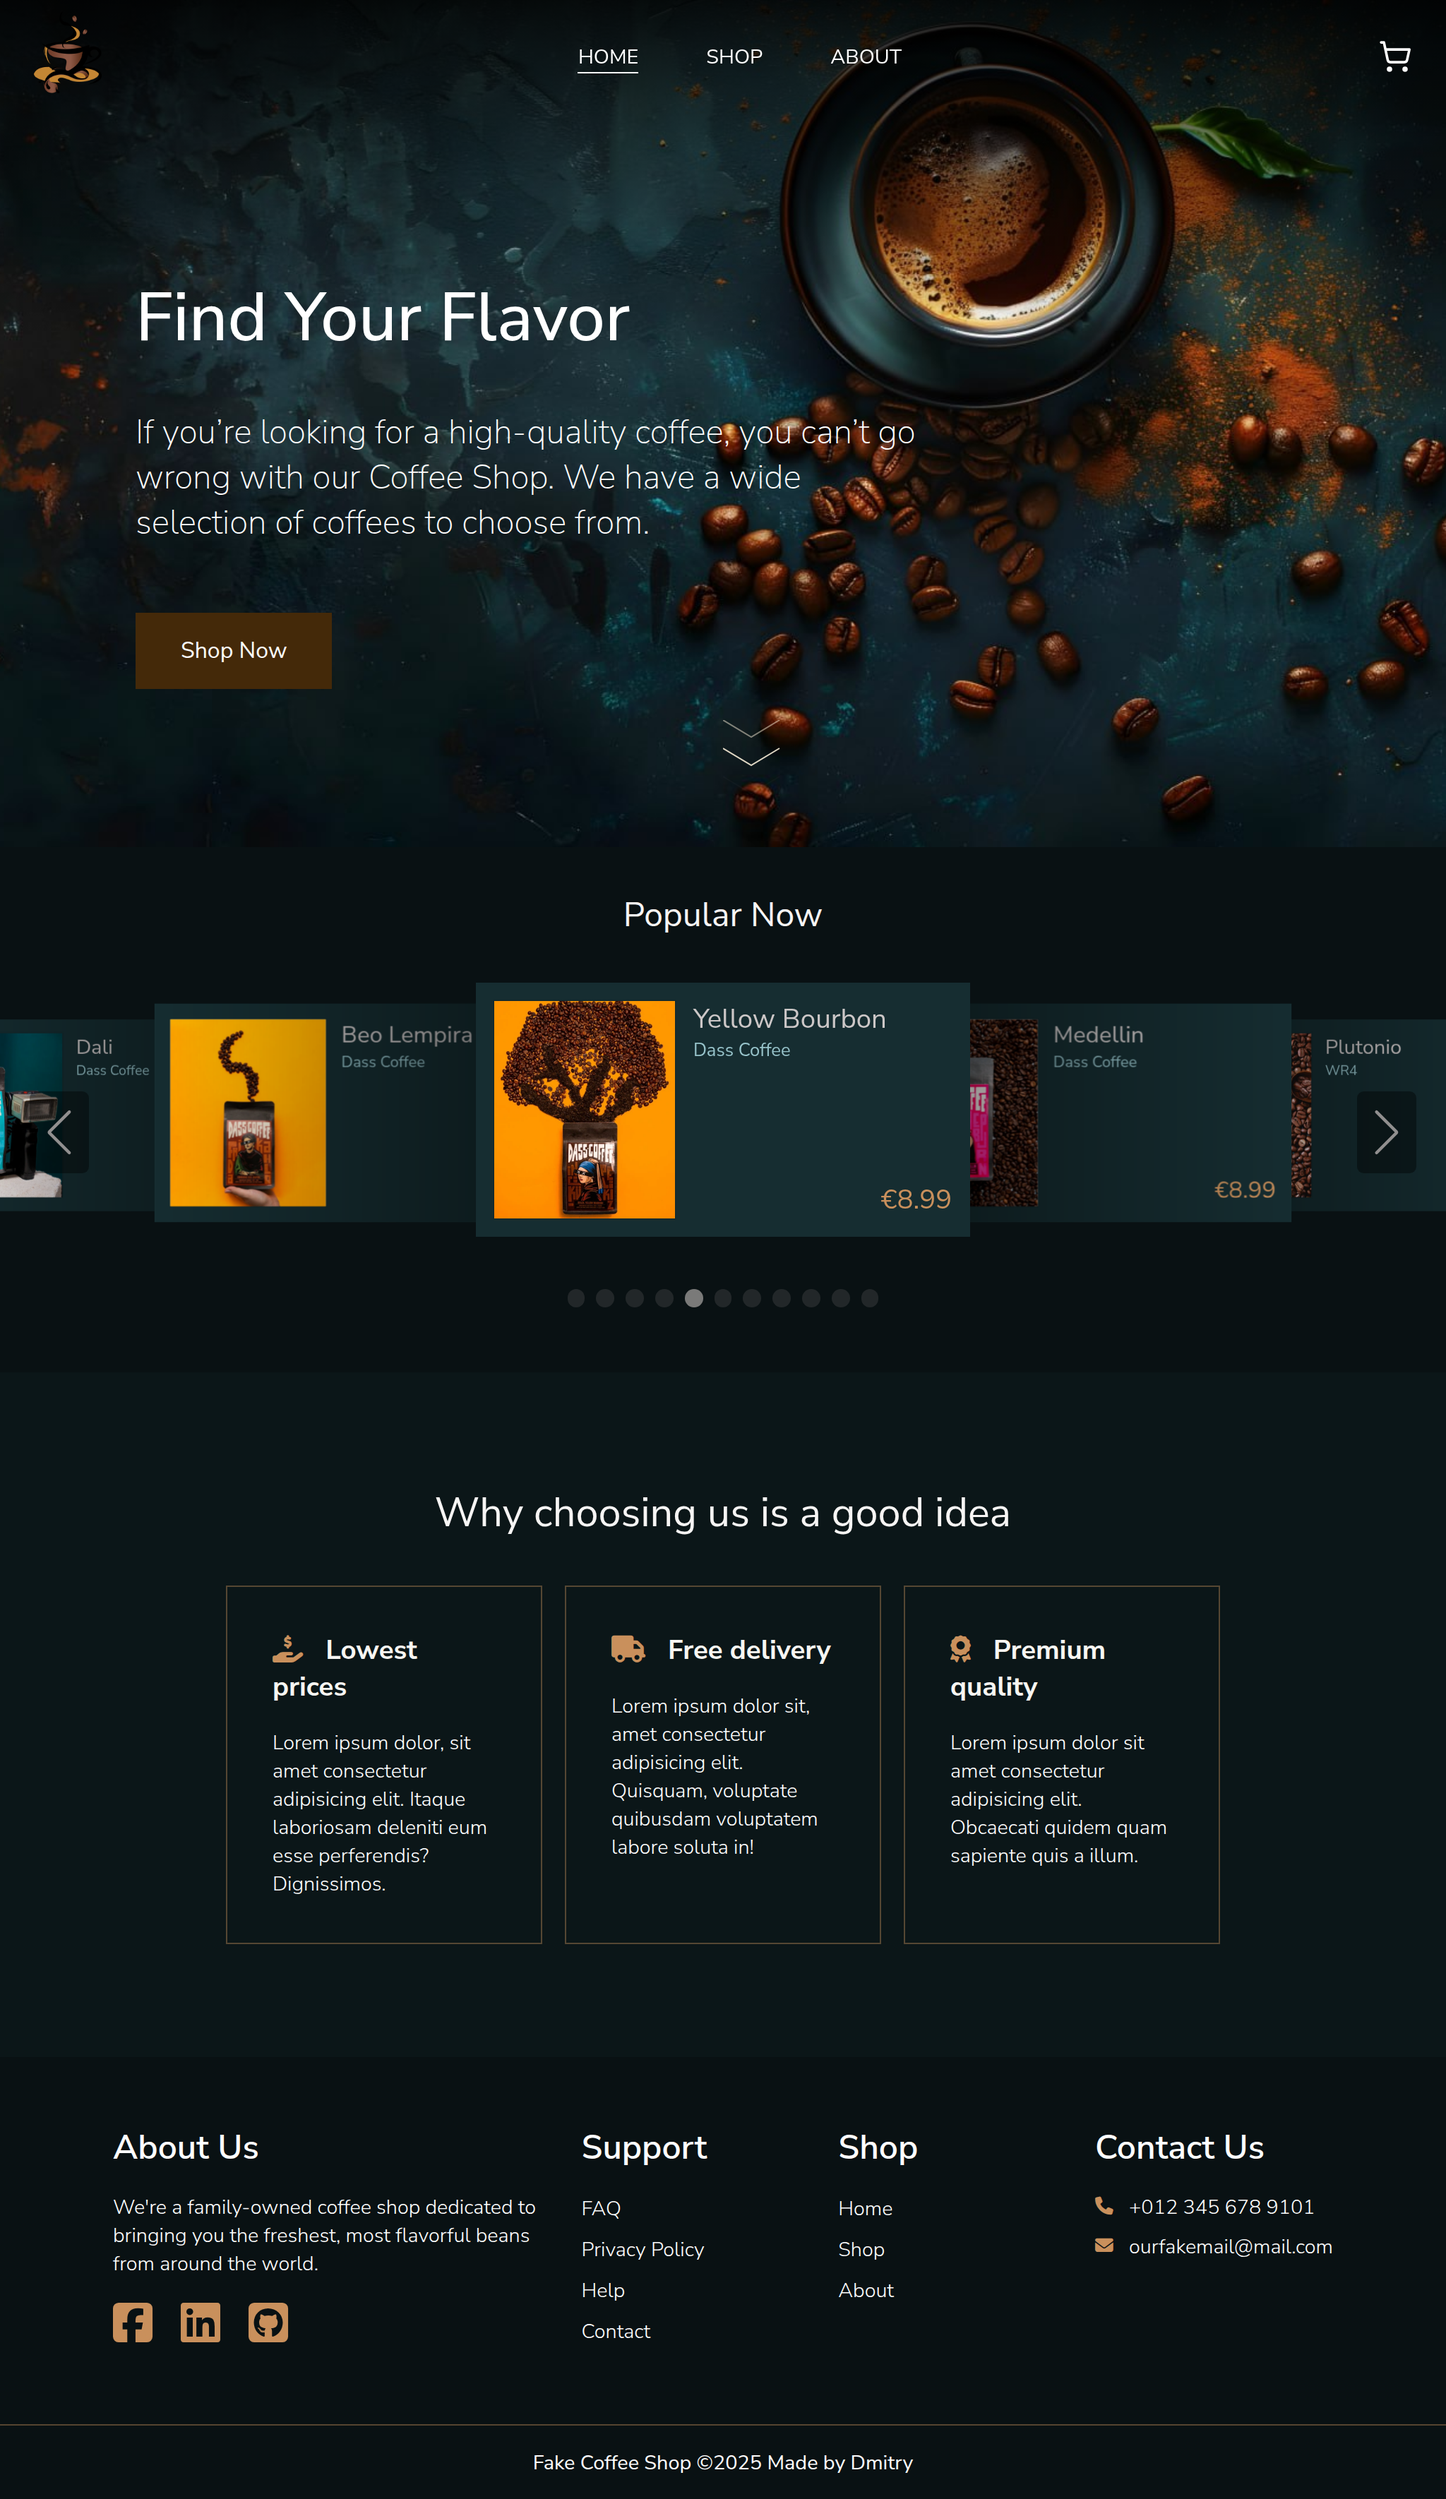
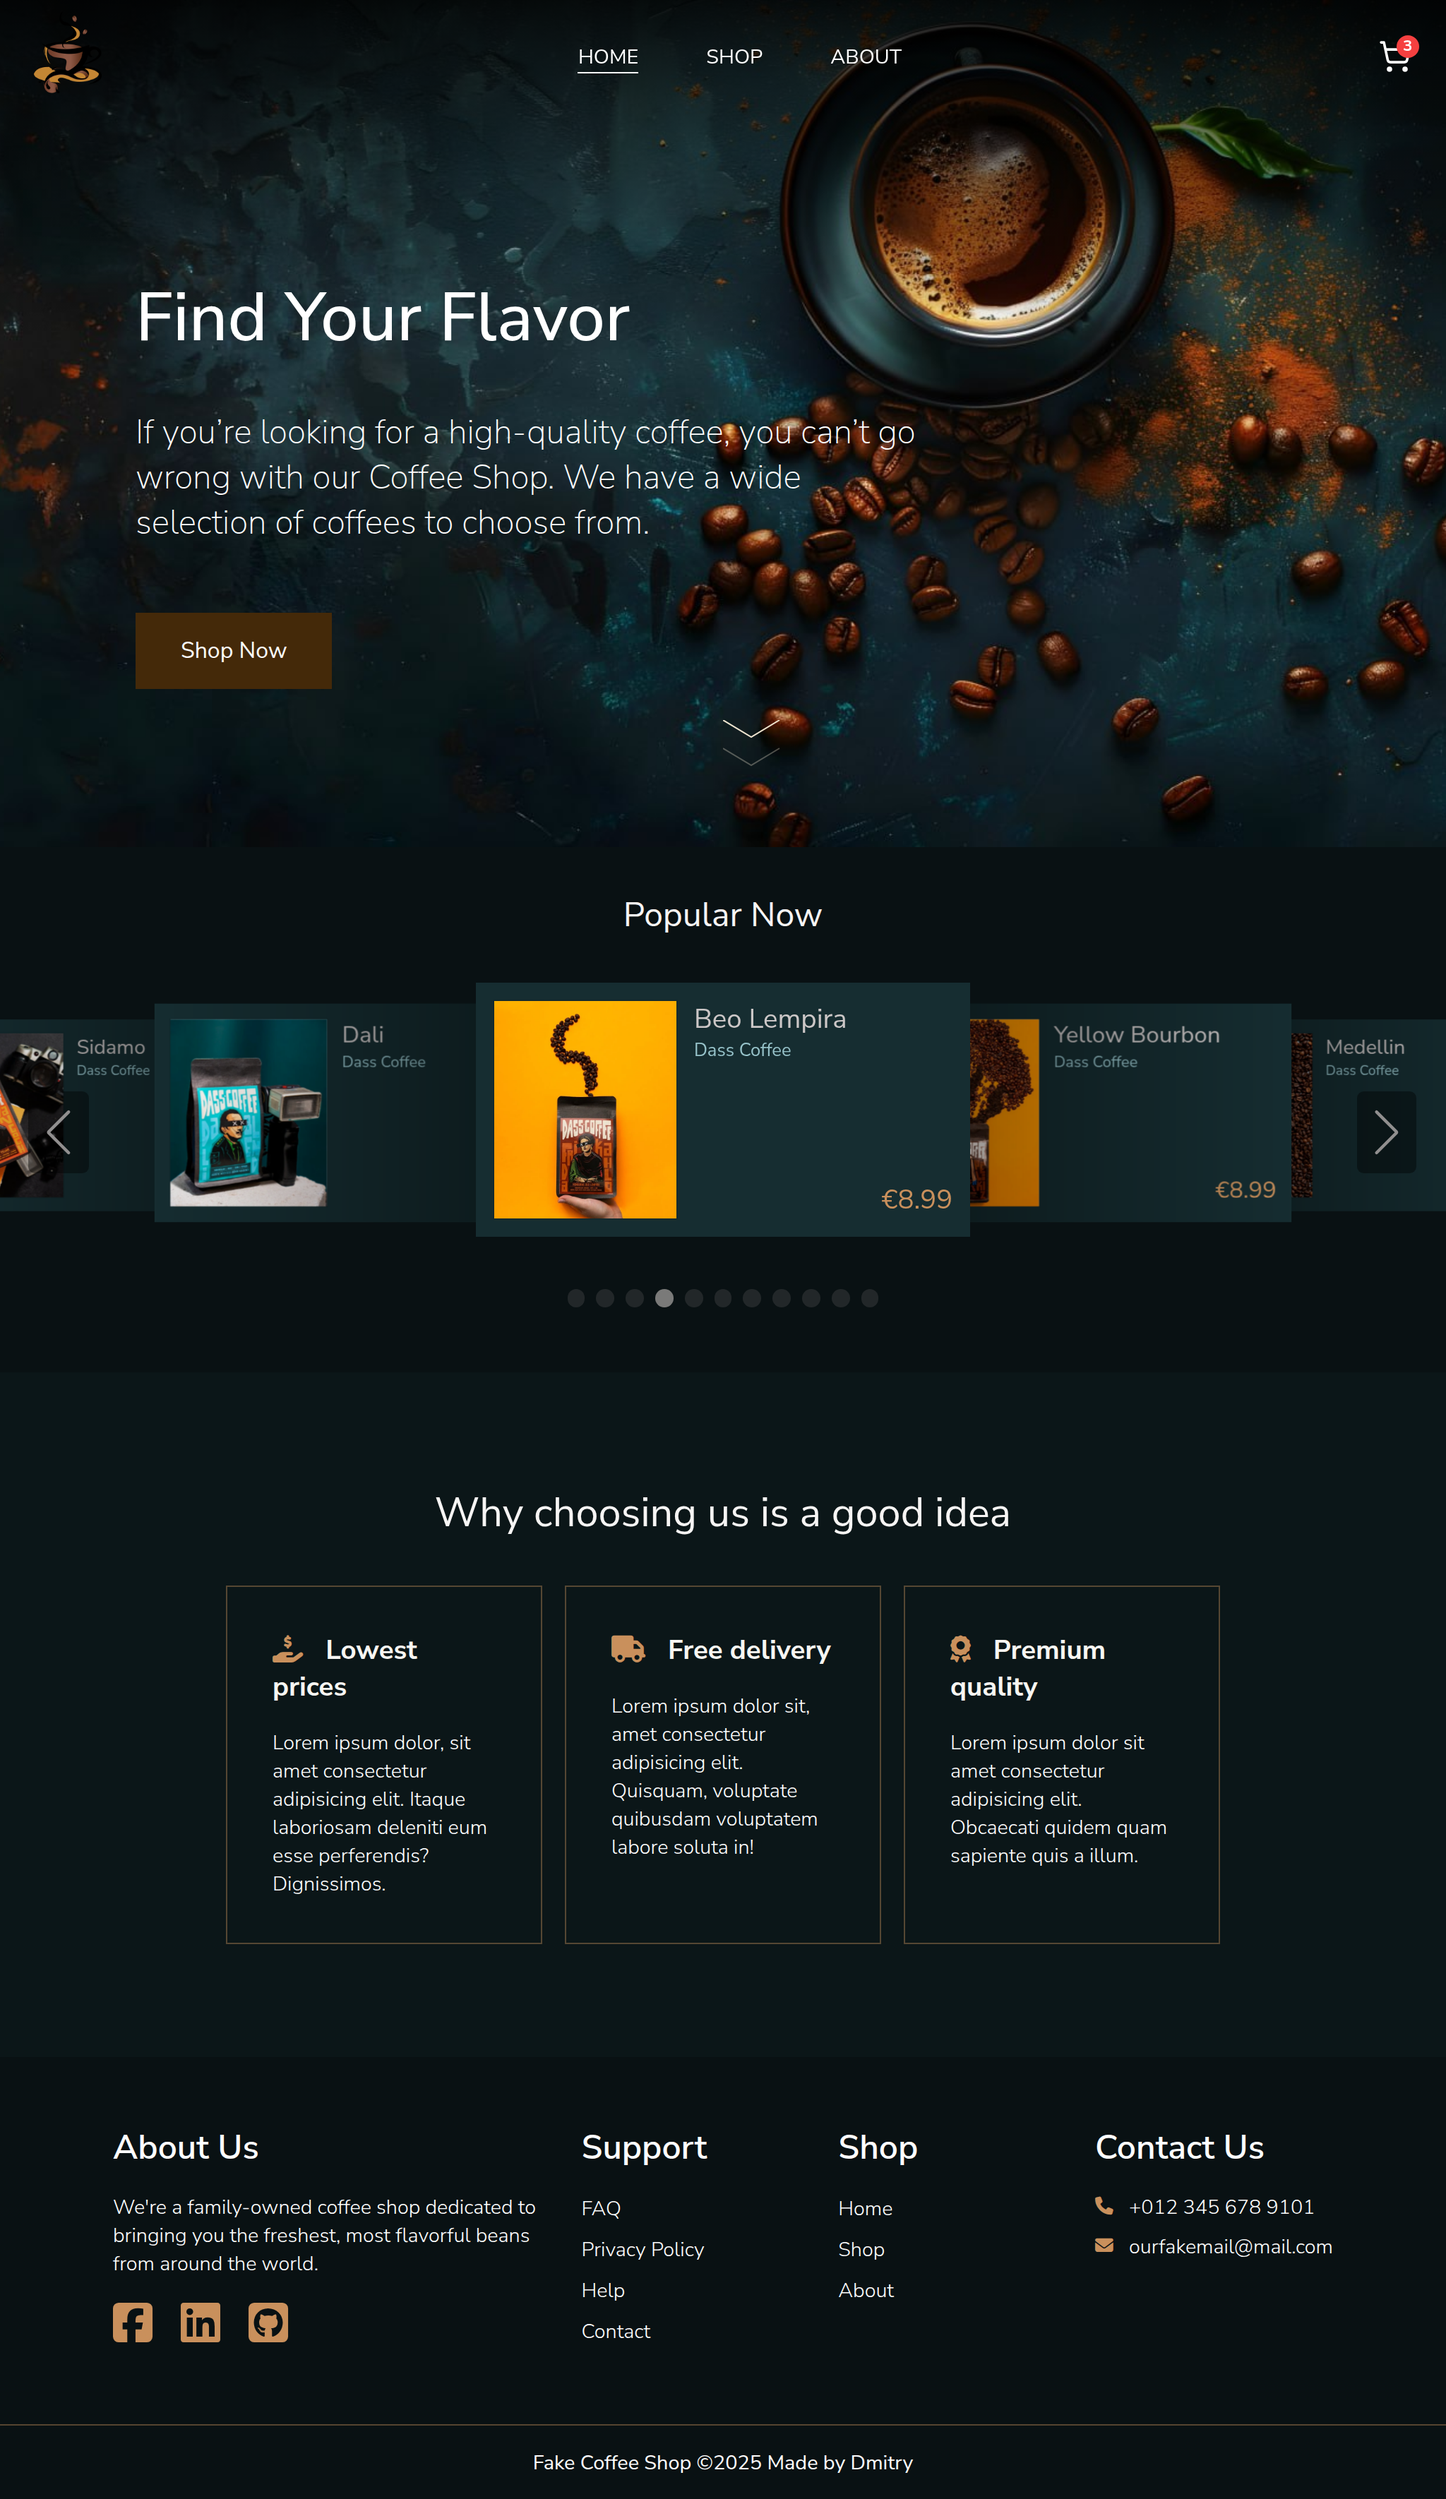
Add(screenshots): shop page image

diff --git a/README.md b/README.md
@@ -4,9 +4,15 @@
 
 A mock e-commerce site built in ReactJS, this project focuses on practising routing, automated testing (Vitest, React Testing Library) and styling React apps (CSS modules). All pages are responsive on desktop, tablet and mobile screens. 
 
-Home Page             |  Product Page
-:-------------------------:|:-------------------------: 
-![](./public/screenshots/home-page-screenshot.png)  |  ![](./public/screenshots/product-page-screenshot.png) 
+<table border="1" style="width:100%">
+  <tr>
+    <td rowspan="4"><img src="./public/screenshots/home-page-screenshot.png"/></td>
+    <td><img src="./public/screenshots/shop-page-screenshot.png"/></td>
+  </tr>
+  <tr>
+    <td><img src="./public/screenshots/product-page-screenshot.png"/></td>
+  </tr> 
+</table>
 
 ## Acknowledgements
 
